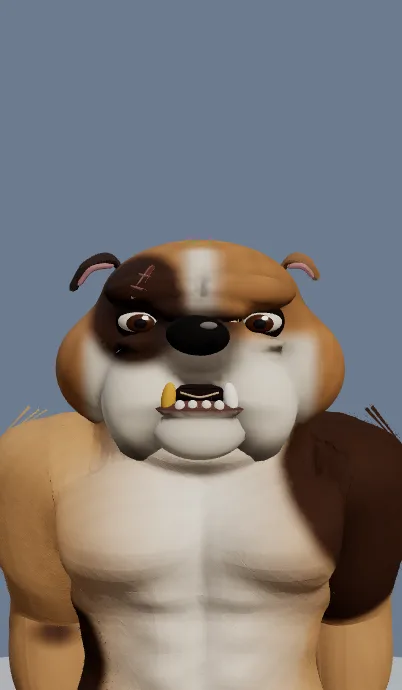
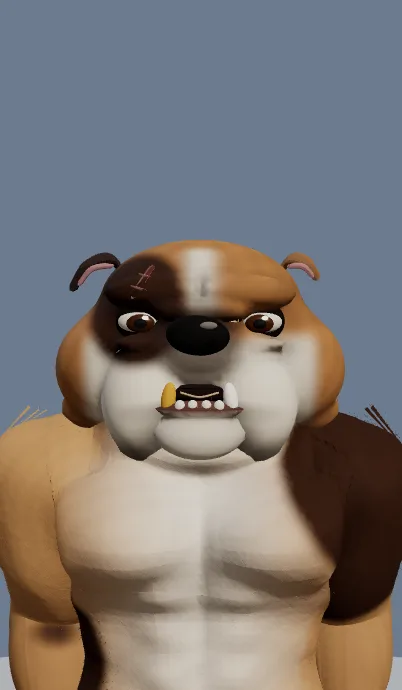
WIP snapshot dream-1 18:26

diff --git a/adventure/story/story-cast.js b/adventure/story/story-cast.js
@@ -403,6 +403,9 @@
     d = SM(d, E(x, y, z, .13, .104, .2, .052, .016, .022), .011);        // lower lid roll
     d = -SM(-d, E(x, y, z, .13, .15, .23, .047, .04, .046), .012);       // eye sockets
     d = SM(d, E(x, y, z, 0, -.16, .03, .225, .08, .16), .05);            // dewlap: loose skin into a bull neck
+    d = SM(d, E(x, y, z, 0, .055, -.225, .2, .036, .06), .012);          // two rolls of skin on the nape (the fight cameras see him from behind)
+    d = SM(d, E(x, y, z, 0, -.03, -.215, .225, .042, .07), .012);
+    d = SM(d, E(x, y, z, .245, -.07, -.04, .07, .06, .12), .014);        // the jowl rolls back into the neck
     return d;
   };
   const mugJaw = (px, y, z) => { const x = Math.abs(px); let d = E(x, y, z, 0, -.072, .125, .16, .056, .14); d = SM(d, E(x, y, z, 0, -.098, .248, .08, .042, .044), .03); return SM(d, E(x, y, z, 0, -.034, .252, .095, .019, .028), .011); };
@@ -417,6 +420,7 @@
         const ax = Math.abs(x), w = Math.max(smooth((z - .07) / .06) * smooth((.135 - y) / .05) * (1 - smooth((ax - .215) / .05)), bell(x, 0, .032) * smooth((z - .04) / .05), smooth((-.07 - y) / .04) * bell(x, 0, .15) * smooth((z + .02) / .06));
         c.copy(fawn).multiplyScalar(1 - .1 * Math.sin(x * 70 + y * 46) * Math.sin(z * 58 + y * 30)).lerp(lin('#8f5f38'), .5 * smooth((-z - .02) / .12)).lerp(white, clamp(w));
         c.lerp(patch, clamp(Math.max(smooth((.13 - Math.hypot(x - .135, (y - .175) * .9, (z - .15) * .45)) / .035), smooth((x - .15) / .04) * smooth((y - .2) / .04) * smooth((.06 - z) / .08)))); // patch over one eye and ear
+        c.lerp(patch, clamp(Math.max(smooth((.12 - Math.hypot(x + .09, (y - .2) * .9, (z + .16) * .6)) / .03), .8 * smooth((.1 - Math.hypot(x - .06, y - .0, (z + .22) * .7)) / .03)))); // dark saddle marks on the back of the skull and the nape
         c.lerp(mask, clamp(.8 * smooth((.115 - Math.hypot(x, (y - .115) * 1.1, (z - .25) * .7)) / .05) + .7 * smooth((-.075 - y) / .05) * smooth((z - .1) / .05) * bell(ax, .115, .075))); // dark mask round the nose, dark lower edge of the flews
       };
       const up = tint(surface(mugUpper, [-.345, -.25, -.27], [.345, .34, .3], .019), mugAll, coat);

diff --git a/qa/gotr-0078/slice1/tools/flow.js b/qa/gotr-0078/slice1/tools/flow.js
@@ -16,6 +16,7 @@ module.exports = async (p, shot, u) => {
   await p.waitForTimeout(1500); await p.evaluate(() => { const b = document.querySelector('#sfBeat .sf-beat-main'); if (b) b.click(); });
   await wait(() => app.engine.targetMode === 'fight' && app.engine.arena?.fightView?.match);
   console.log('fight', JSON.stringify(await p.evaluate(() => ({ opponent: app.engine.arena.rabbit?.character, venue: app.engine.arena.fightView.venue?.id || app.engine.fightOptions?.venue, phase: app.engine.arena.fightView.match.phase }))));
+  console.log('graph', JSON.stringify(await p.evaluate(() => { const a = app.engine.arena, f = o => (o.name || o.type) + (o.visible ? '' : '(hidden)') + ':' + o.children.length; return { group: a.group.children.map(f), scene: app.engine.scene.children.map(f), gym: !!a.fightView.gymFight, set: !!a.fightView.gymFight?.set }; })));
   await frames(40); await shot(`${tag}-fight-guard-${u.w}`);
   // a punch by Brick: wait until his hand is far in front of his chest
   await wait(() => { const c = app.engine.arena.rabbit, m = c?.metrics; return m && m.strike > .7; }, null, 200000).catch(() => {}); await shot(`${tag}-fight-punch-${u.w}`);
